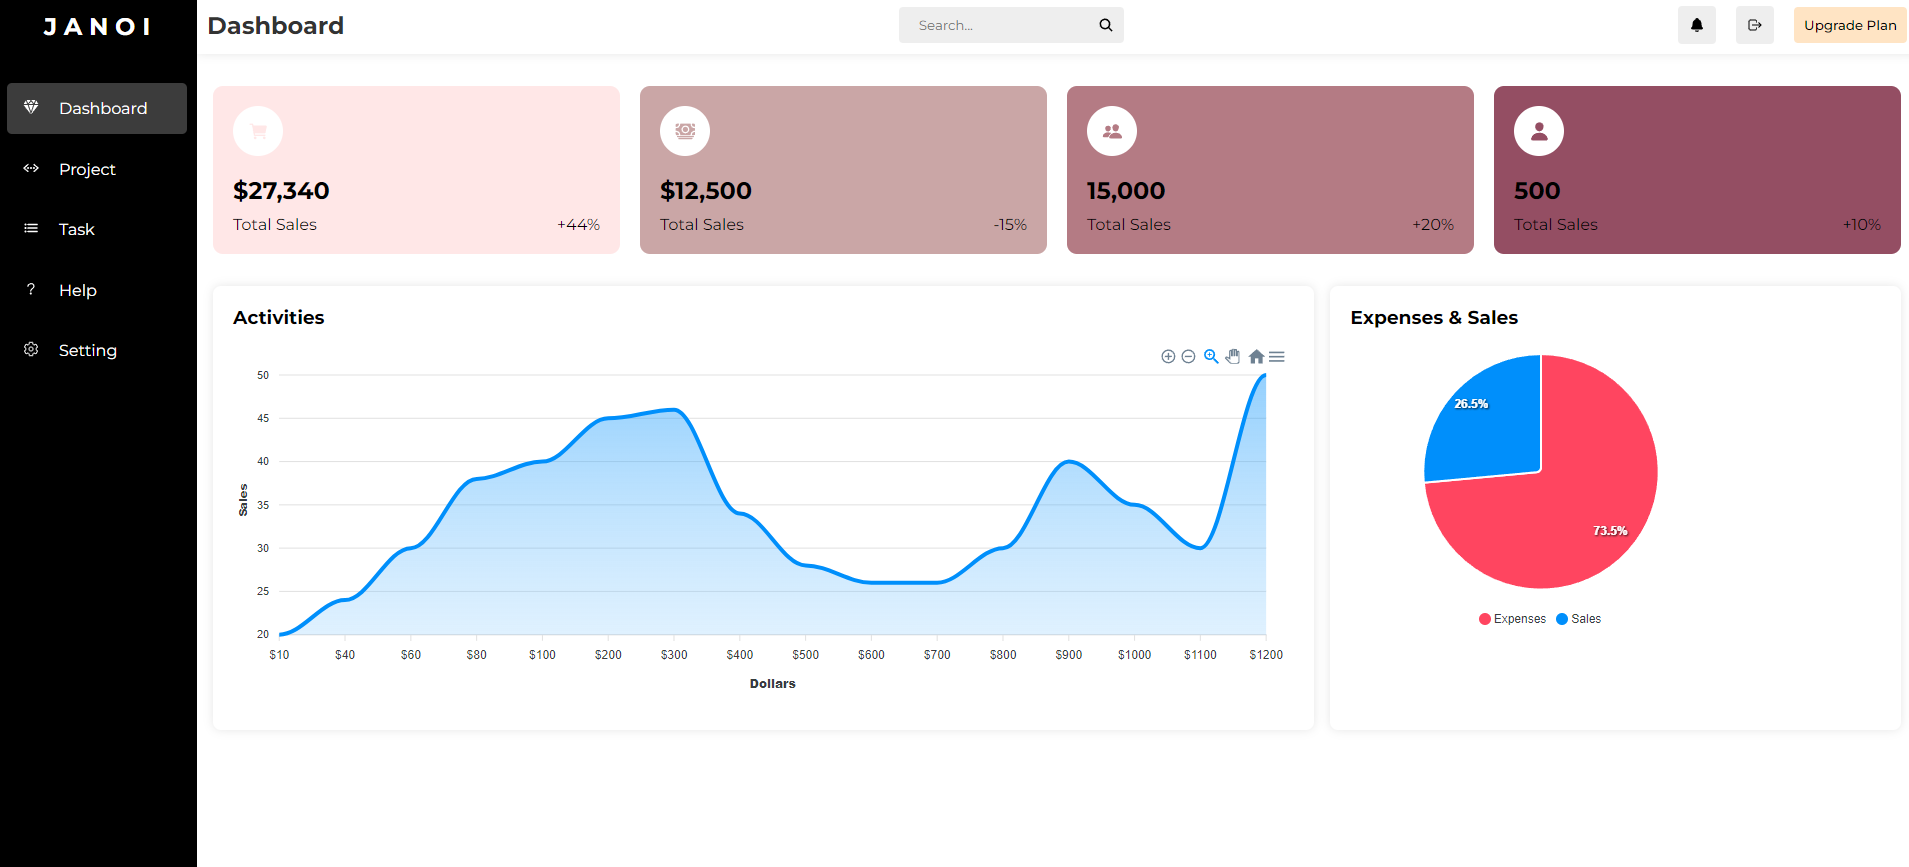
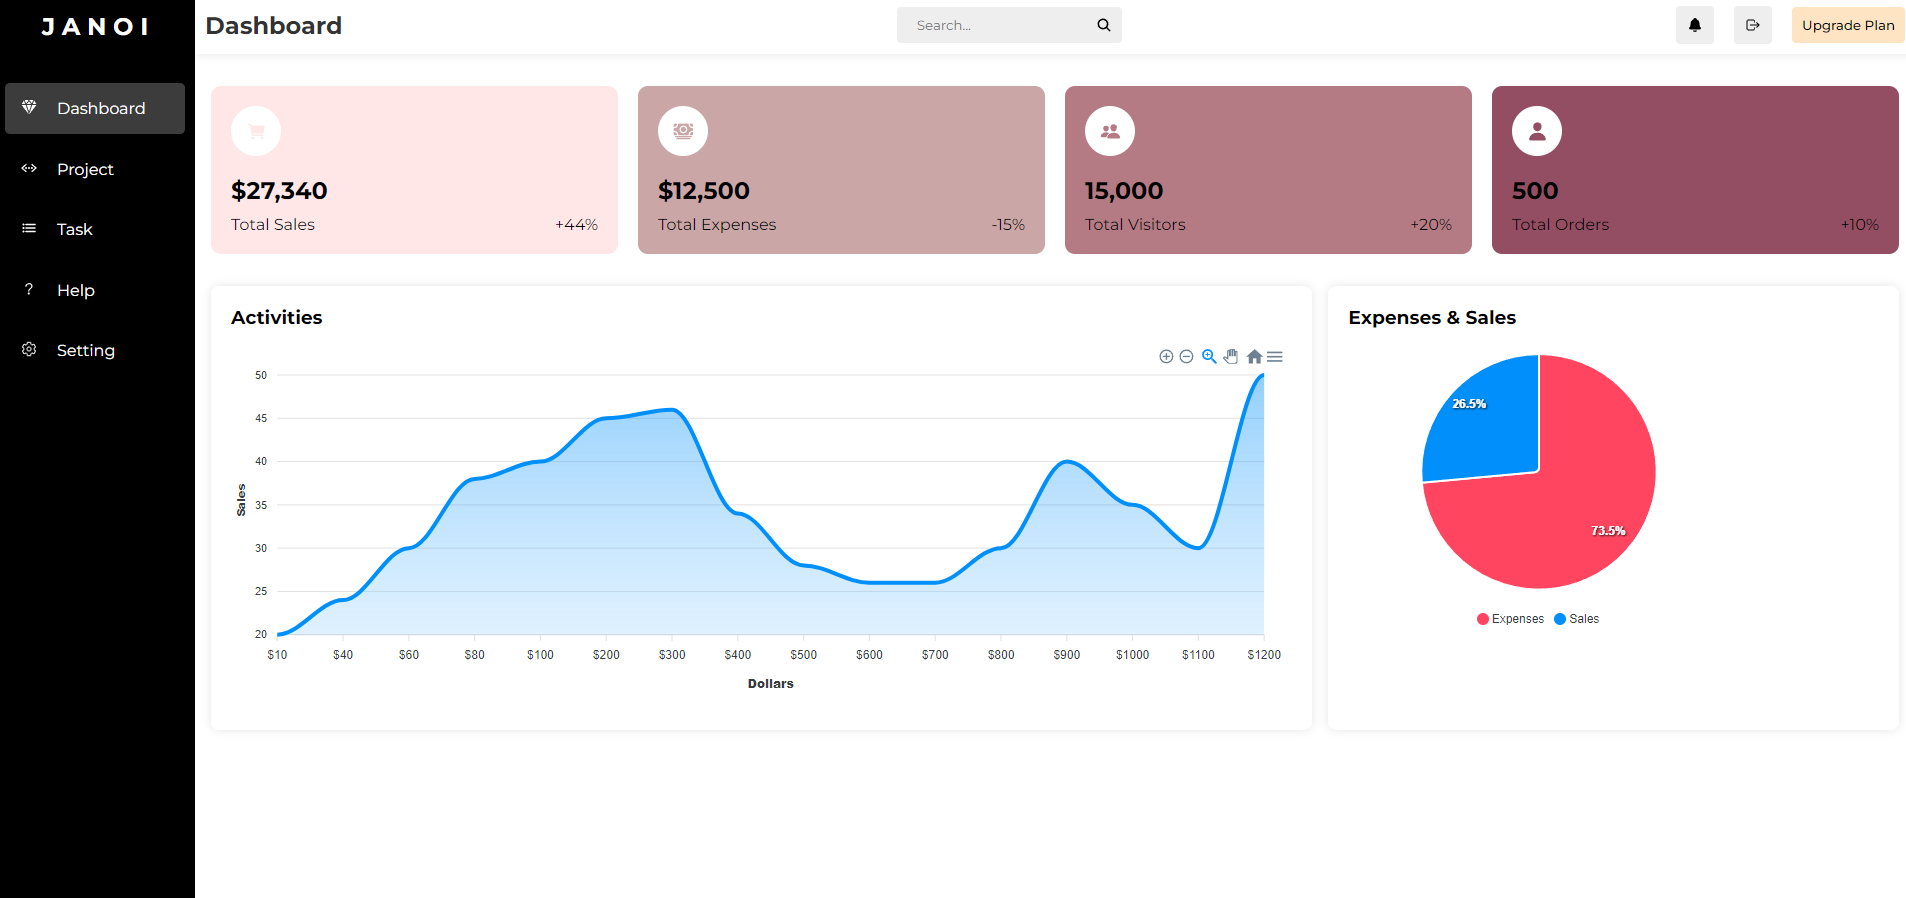
Update data to  commit

diff --git a/src/DataContents/DataContentsProject.js b/src/DataContents/DataContentsProject.js
@@ -81,15 +81,13 @@ export const Data_Project = [
         date: "May 2024",
         picture: img_workshop5,
         title: "Workshop Project React-Dashboard",
-        link: "https://react-dashboard-ten-green.vercel.app/",
+        link: "https://react-dashboard-nine-lime.vercel.app/",
         iconlinks: [
             {type: faGithub, link: "https://github.com/JanoiBJR21/Workshop-React-Dashboard"},
         ],
         descriptions: [
-            "The Project Shopping Cart API website is part of creating an online application for shopping.",
-            "Add to Cart: Adding products to cart is the process in which users select the products they want to purchase and add them to their cart. This usually involves clicking the “Add to Cart” or similar button on the product page.",
-            "Remove from Cart: Removing products from cart is a process in which the user selects the products that they want to remove from the cart. This usually involves clicking the “Remove” or similar button on the cart page.",
-            "Calculate Total Order: When the user adds or deletes items in the cart. The system must calculate the total amount of all products in the cart. This includes the price of each product. and show the total to the user."
+            "Dashboard that displays graphs and information about sales, total expenses, total visitors, and total orders is useful for tracking and analysis. Information to improve and optimize your business",
+      
         ],
         techs: [
             ["HTML", "CSS", "JavaScript", "React"],
